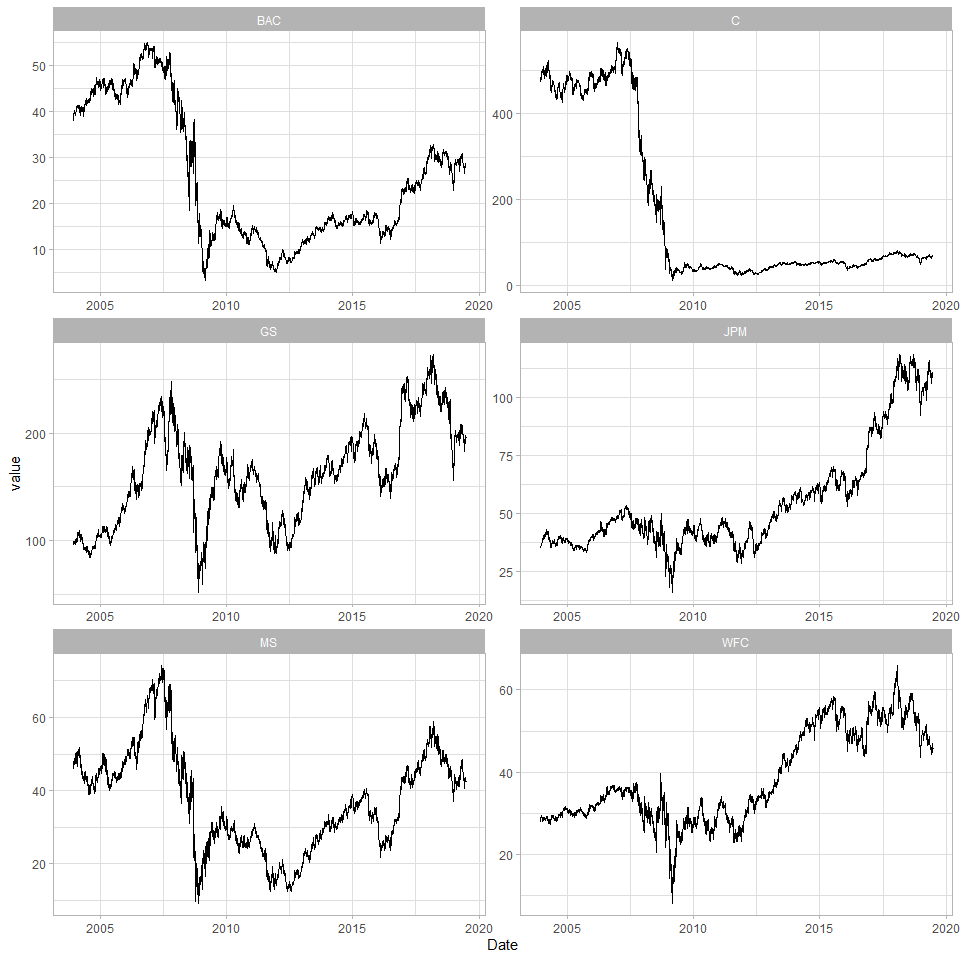
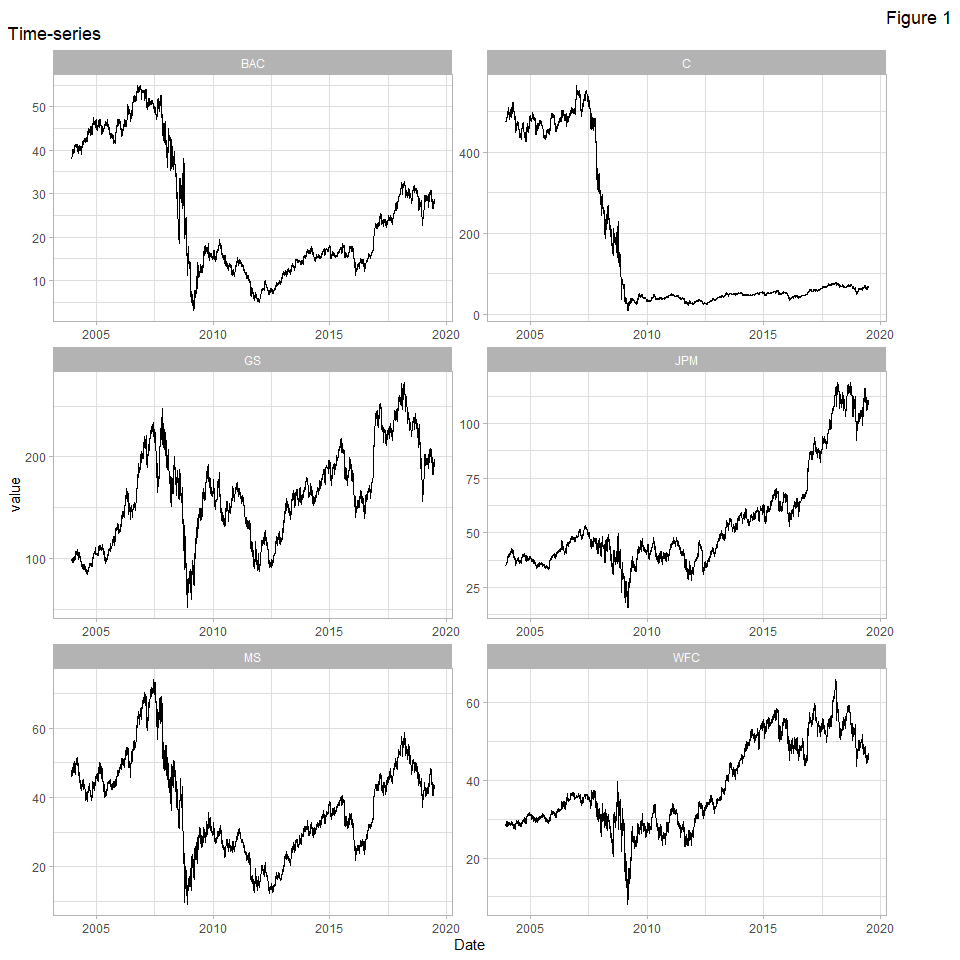
titles, tags

diff --git a/Exercise-2.md b/Exercise-2.md
@@ -51,7 +51,8 @@ library(tidyverse)
 library(urca)
 theme_set(theme_light() + theme(
   legend.title = element_blank(),
-  plot.title.position = "plot"
+  plot.title.position = "plot",
+  plot.tag.position = "topright"
 ))
 load("Exercise-2.RData") # datas from Bankdata.xlsx
 ```
@@ -63,7 +64,10 @@ Bankdata %>%
   pivot_longer(-1) %>%
   ggplot(aes(x = Date, y = value)) +
   geom_line() +
-  facet_wrap(vars(name), nrow = 3, scales = "free")
+  facet_wrap(vars(name), nrow = 3, scales = "free") + labs(
+   title =  "Time-series",
+   tag = 'Figure 1'
+  )
 ```
 
 ![](Exercise-2_files/figure-gfm/unnamed-chunk-3-1.png)<!-- -->
@@ -84,9 +88,7 @@ Bankdata %>%
 ``` r
 Bankdata %>%
   select(-1) %>%
-  apply(2, function(x) { # # of differences required for stationarity to each series
-    diff(x)
-  }) %>%
+  apply(2, function(x) {diff(x)}) %>%
   data.frame() %>%
   mutate(
     Date = tail(Bankdata$Date, -1)
@@ -94,7 +96,10 @@ Bankdata %>%
   pivot_longer(-Date) %>%
   ggplot(aes(x = Date, y = value)) +
   geom_line() +
-  facet_wrap(vars(name), nrow = 3, scales = "free")
+  facet_wrap(vars(name), nrow = 3, scales = "free")+ labs(
+   title =  "First difference of the time-series",
+   tag = 'Figure 2'
+  )
 ```
 
 ![](Exercise-2_files/figure-gfm/unnamed-chunk-5-1.png)<!-- -->
@@ -160,7 +165,8 @@ cointegration_tests(df = Bankdata, test = "adf", type = "level", 0.05) %>%
     y = "Dependent variable in the OLS",
     x = "Independent variable in the OLS",
     title = "Results of Engle-Granger method",
-    caption = "Calculations are based on ADF-test (level, alpha = 5%)"
+    caption = "Calculations are based on ADF-test (level, alpha = 5%)",
+    tag = 'Figure 3'
   )
 ```
 
@@ -260,7 +266,8 @@ cointegration_tests_rw %>%
     y = "Result of the test",
     x = "# window",
     caption = "Calculations are based on ADF-test (level, alpha = 5%)\n
-    Depedent variables (in the OLS) are placed horizontal, independents are vertical."
+    Depedent variables (in the OLS) are placed horizontal, independents are vertical.",
+    tag = 'Figure 4'
   )
 ```
 
@@ -295,7 +302,8 @@ merge(expand.grid(1:(nrow(Bankdata) - 249), c(0, 1, 2)) %>% rename_all(funs(c("t
     y = "# pairs with the result",
     x = "# window",
     caption = "Calculations are based on ADF-test (level, alpha = 5%).\n
-    # total pairs are 6."
+    # total pairs are 6.",
+    tag = 'Figure 5'
   ) +
   scale_fill_grey()
 ```
@@ -355,7 +363,8 @@ johansen_tests_rw %>%
     y = "# cointegrated vectors",
     x = "# window",
     caption = "Points are jittered around their true y value for better visualisation.\n
-    (The number of cointegrated vectors is interger)"
+    (The number of cointegrated vectors is interger)",
+    tag = 'Figure 6'
   )
 ```
 
